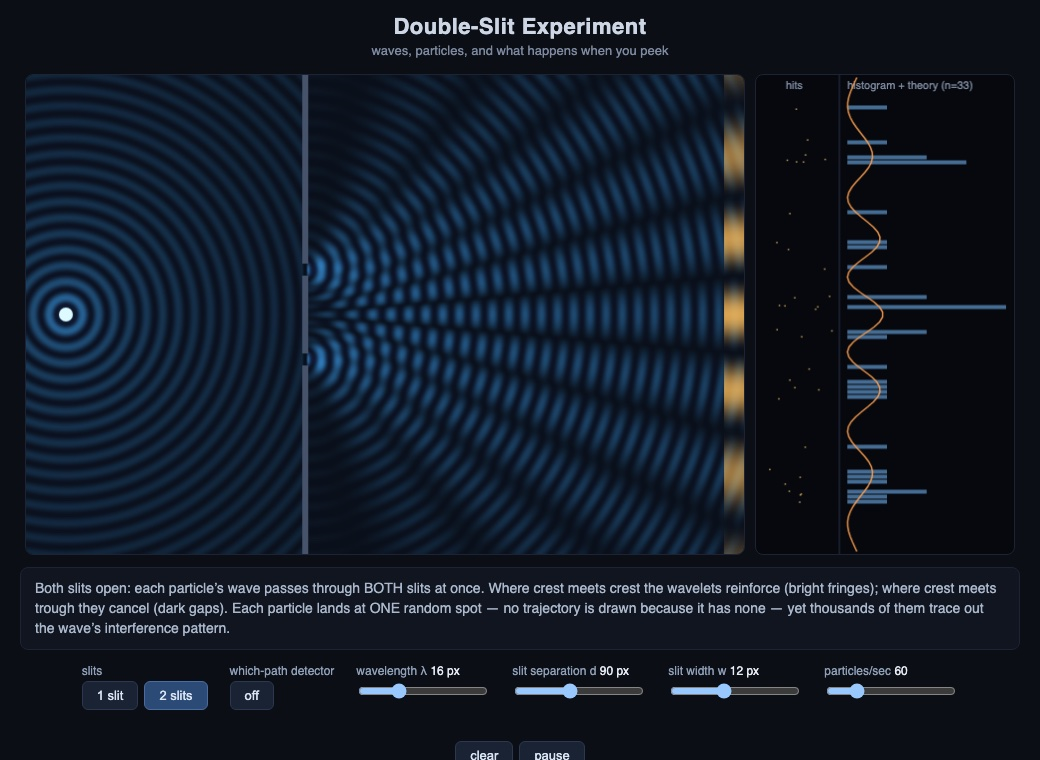
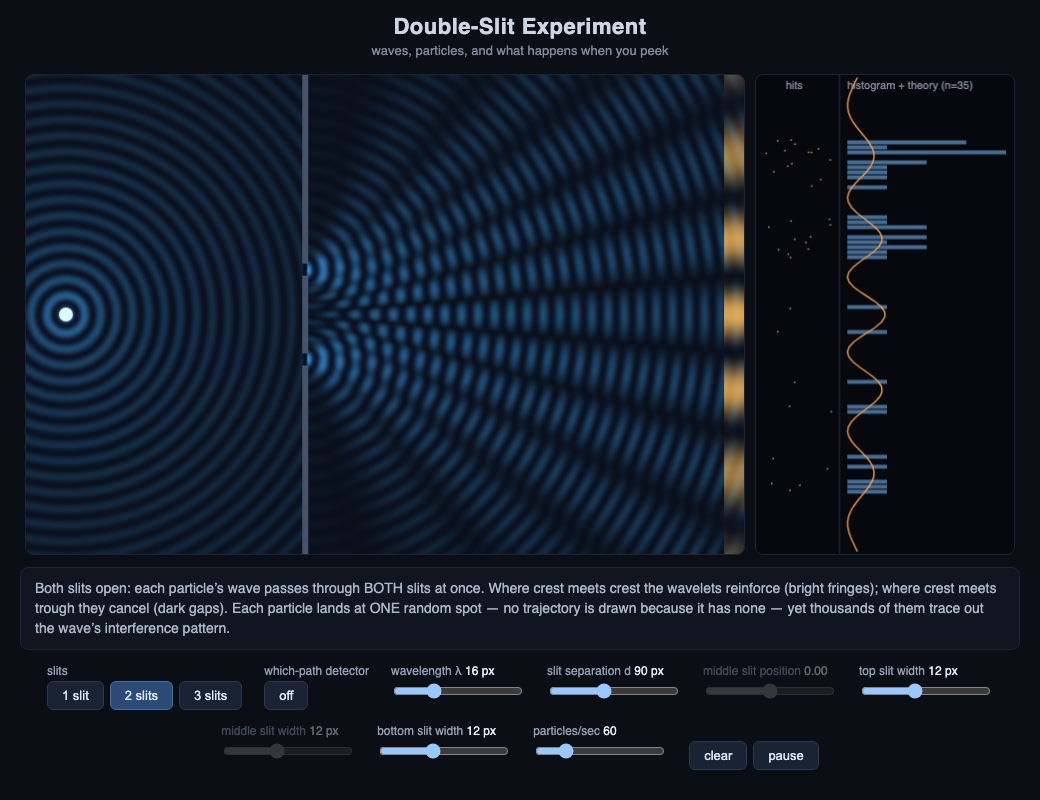
feat(dual-slit): third slit with movable middle slit and per-slit widths
midPos -1..+1 slides the middle slit from adjacent-to-top to adjacent-to-
bottom; each slit gets its own width slider. Which-path detector now
scrambles phases across all open slits.

Changed region(s): [[0.0, 0.0, 0.9846, 1.0], [0.7385, 0.0908, 0.7692, 0.1211], [0.3692, 0.6658, 0.4, 0.6961]]

diff --git a/2d-dual-slit-experiment/index.html b/2d-dual-slit-experiment/index.html
@@ -41,6 +41,7 @@ button:disabled { opacity:0.4; cursor:default; }
     <div class="btngroup">
       <button id="slits1">1 slit</button>
       <button id="slits2" class="active">2 slits</button>
+      <button id="slits3">3 slits</button>
     </div>
   </div>
   <div class="ctl">which-path detector
@@ -52,8 +53,17 @@ button:disabled { opacity:0.4; cursor:default; }
   <div class="ctl"><span>slit separation d <span class="val" id="sepVal"></span></span>
     <input type="range" id="sep" min="40" max="160" step="2" value="90">
   </div>
-  <div class="ctl"><span>slit width w <span class="val" id="slitWidthVal"></span></span>
-    <input type="range" id="slitWidth" min="4" max="24" step="1" value="12">
+  <div class="ctl"><span>middle slit position <span class="val" id="midPosVal"></span></span>
+    <input type="range" id="midPos" min="-1" max="1" step="0.05" value="0">
+  </div>
+  <div class="ctl"><span>top slit width <span class="val" id="w1Val"></span></span>
+    <input type="range" id="w1" min="4" max="24" step="1" value="12">
+  </div>
+  <div class="ctl"><span>middle slit width <span class="val" id="w2Val"></span></span>
+    <input type="range" id="w2" min="4" max="24" step="1" value="12">
+  </div>
+  <div class="ctl"><span>bottom slit width <span class="val" id="w3Val"></span></span>
+    <input type="range" id="w3" min="4" max="24" step="1" value="12">
   </div>
   <div class="ctl"><span>particles/sec <span class="val" id="rateVal"></span></span>
     <input type="range" id="rate" min="0" max="300" step="5" value="60">
@@ -66,23 +76,42 @@ button:disabled { opacity:0.4; cursor:default; }
   </div>
 </div>
 <script id="physics-core">
-// Pure double-slit math. No DOM. Huygens: each slit = perSlit coherent point
-// sources; 2D cylindrical waves e^{ikr}/sqrt(r).
+// Pure slit-experiment math. No DOM. Huygens: each slit = perSlit coherent
+// point sources; 2D cylindrical waves e^{ikr}/sqrt(r). Up to 3 slits, each
+// with its own width. midPos slides the middle slit of a 3-slit barrier:
+// -1 = adjacent to the top slit, 0 = centered, +1 = adjacent to the bottom.
 const Physics = {
-  slitSources({ slitCount, sep, slitWidth, barrierX, cy, perSlit }) {
-    const centers = slitCount === 1 ? [cy] : [cy - sep / 2, cy + sep / 2];
+  // Slit centers/widths, top to bottom. widths[i] belongs to slit i.
+  slitLayout({ slitCount, sep, widths, midPos = 0, cy }) {
+    if (slitCount === 1) return [{ c: cy, w: widths[0] }];
+    if (slitCount === 2) return [
+      { c: cy - sep / 2, w: widths[0] },
+      { c: cy + sep / 2, w: widths[1] }
+    ];
+    const wT = widths[0], wM = widths[1], wB = widths[2];
+    const offTop = Math.max(0, sep / 2 - (wT + wM) / 2 - 2); // 2 px wall at the extreme
+    const offBot = Math.max(0, sep / 2 - (wB + wM) / 2 - 2);
+    const c = cy + (midPos < 0 ? midPos * offTop : midPos * offBot);
+    return [
+      { c: cy - sep / 2, w: wT },
+      { c, w: wM },
+      { c: cy + sep / 2, w: wB }
+    ];
+  },
+  slitSources(opts) {
+    const { barrierX, perSlit } = opts;
     const srcs = [];
-    centers.forEach((c, slit) => {
+    Physics.slitLayout(opts).forEach(({ c, w }, slit) => {
       for (let i = 0; i < perSlit; i++) {
         const f = perSlit === 1 ? 0 : i / (perSlit - 1) - 0.5;
-        srcs.push({ x: barrierX, y: c + f * slitWidth, slit });
+        srcs.push({ x: barrierX, y: c + f * w, slit });
       }
     });
     return srcs;
   },
-  // Per-slit complex field sums at one point: {re:[A,B], im:[A,B]}
+  // Per-slit complex field sums at one point: {re:[A,B,C], im:[A,B,C]}
   fieldAt(sources, k, px, py) {
-    const re = [0, 0], im = [0, 0];
+    const re = [0, 0, 0], im = [0, 0, 0];
     for (const s of sources) {
       const r = Math.max(Math.hypot(px - s.x, py - s.y), 0.5);
       const a = 1 / Math.sqrt(r);
@@ -92,14 +121,14 @@ const Physics = {
     return { re, im };
   },
   // Intensity profile down the screen column. coherent=false models a
-  // which-path measurement: |psi1|^2 + |psi2|^2 instead of |psi1+psi2|^2.
+  // which-path measurement: sum |psi_i|^2 instead of |sum psi_i|^2.
   screenIntensity(sources, k, screenX, height, coherent) {
     const I = new Float64Array(height);
     for (let y = 0; y < height; y++) {
       const f = Physics.fieldAt(sources, k, screenX, y + 0.5);
       I[y] = coherent
-        ? (f.re[0] + f.re[1]) ** 2 + (f.im[0] + f.im[1]) ** 2
-        : f.re[0] ** 2 + f.im[0] ** 2 + f.re[1] ** 2 + f.im[1] ** 2;
+        ? (f.re[0] + f.re[1] + f.re[2]) ** 2 + (f.im[0] + f.im[1] + f.im[2]) ** 2
+        : f.re[0] ** 2 + f.im[0] ** 2 + f.re[1] ** 2 + f.im[1] ** 2 + f.re[2] ** 2 + f.im[2] ** 2;
     }
     return I;
   },
@@ -136,9 +165,9 @@ const SRC = { x: 40, y: H / 2 };
 const BARRIER_X = 280, BARRIER_W = 6, SCREEN_X = 700;
 const PER_SLIT = 9;
 
-const state = { slits: 2, sep: 90, slitWidth: 12, lambda: 16, rate: 60, detector: false, paused: false };
+const state = { slits: 2, sep: 90, w1: 12, w2: 12, w3: 12, midPos: 0, lambda: 16, rate: 60, detector: false, paused: false };
 
-let reA, imA, reB, imB, envArr, screenI, cdf, maxScreenI = 0;
+let reS, imS, envArr, screenI, cdf, maxScreenI = 0;
 let sources = [], kNum = 0;
 
 const gcan = document.createElement('canvas');
@@ -150,17 +179,33 @@ const glowCan = document.createElement('canvas');
 glowCan.width = 1; glowCan.height = H;
 const glowCtx = glowCan.getContext('2d');
 
-function incoherent() { return state.detector && state.slits === 2; }
+function incoherent() { return state.detector && state.slits >= 2; }
+
+// widths in slit order, top to bottom; the single slit sits in the middle
+function activeWidths() {
+  if (state.slits === 1) return [state.w2];
+  if (state.slits === 2) return [state.w1, state.w3];
+  return [state.w1, state.w2, state.w3];
+}
+
+function layoutOpts() {
+  return { slitCount: state.slits, sep: state.sep, widths: activeWidths(),
+    midPos: state.midPos, barrierX: BARRIER_X, cy: H / 2, perSlit: PER_SLIT };
+}
 
 function recompute() {
   // keep slits from overlapping
-  if (state.slits === 2 && state.slitWidth > state.sep - 16) state.slitWidth = state.sep - 16;
+  if (state.slits >= 2) {
+    const cap = state.slits === 3 ? Math.max(4, Math.floor(state.sep / 2 - 6)) : Math.max(4, state.sep - 16);
+    state.w1 = Math.min(state.w1, cap);
+    state.w2 = Math.min(state.w2, cap);
+    state.w3 = Math.min(state.w3, cap);
+  }
   kNum = 2 * Math.PI / state.lambda;
-  sources = Physics.slitSources({ slitCount: state.slits, sep: state.sep,
-    slitWidth: state.slitWidth, barrierX: BARRIER_X, cy: H / 2, perSlit: PER_SLIT });
+  sources = Physics.slitSources(layoutOpts());
   const n = GW * GH;
-  reA = new Float32Array(n); imA = new Float32Array(n);
-  reB = new Float32Array(n); imB = new Float32Array(n);
+  reS = [new Float32Array(n), new Float32Array(n), new Float32Array(n)];
+  imS = [new Float32Array(n), new Float32Array(n), new Float32Array(n)];
   const srcNorm = 3.2 / PER_SLIT;
   for (let gy = 0; gy < GH; gy++) {
     const y = gy * GS + GS / 2;
@@ -171,11 +216,12 @@ function recompute() {
       if (x < BARRIER_X) {
         const r = Math.max(Math.hypot(x - SRC.x, y - SRC.y), 0.5);
         const a = 2.2 / Math.sqrt(r);
-        reA[i] = a * Math.cos(kNum * r); imA[i] = a * Math.sin(kNum * r);
+        reS[0][i] = a * Math.cos(kNum * r); imS[0][i] = a * Math.sin(kNum * r);
       } else {
         const f = Physics.fieldAt(sources, kNum, x, y);
-        reA[i] = f.re[0] * srcNorm; imA[i] = f.im[0] * srcNorm;
-        reB[i] = f.re[1] * srcNorm; imB[i] = f.im[1] * srcNorm;
+        for (let sl = 0; sl < 3; sl++) {
+          reS[sl][i] = f.re[sl] * srcNorm; imS[sl][i] = f.im[sl] * srcNorm;
+        }
       }
     }
   }
@@ -192,10 +238,11 @@ function recompute() {
 function computeEnv() {
   envArr = new Float32Array(GW * GH);
   const inc = incoherent();
+  const [r0, r1, r2] = reS, [i0, i1, i2] = imS;
   for (let i = 0; i < envArr.length; i++) {
     envArr[i] = inc
-      ? Math.sqrt(reA[i] * reA[i] + imA[i] * imA[i] + reB[i] * reB[i] + imB[i] * imB[i])
-      : Math.hypot(reA[i] + reB[i], imA[i] + imB[i]);
+      ? Math.sqrt(r0[i] * r0[i] + i0[i] * i0[i] + r1[i] * r1[i] + i1[i] * i1[i] + r2[i] * r2[i] + i2[i] * i2[i])
+      : Math.hypot(r0[i] + r1[i] + r2[i], i0[i] + i1[i] + i2[i]);
   }
 }
 
@@ -210,18 +257,21 @@ function buildGlow() {
   glowCtx.putImageData(img, 0, 0);
 }
 
-let thetaB = 0;  // extra phase on slit B; random-walks when "watched"
+let theta1 = 0, theta2 = 0;  // extra phase per slit; random-walks when "watched"
 function drawField(tSec) {
   const om = kNum * 110;                       // ripples travel ~110 px/s
   const c = Math.cos(om * tSec), s = Math.sin(om * tSec);
-  let cB = c, sB = s;
+  let c1 = c, s1 = s, c2 = c, s2 = s;
   if (incoherent()) {
-    thetaB += (Math.random() - 0.5) * 0.9;     // measurement scrambles relative phase
-    cB = Math.cos(om * tSec + thetaB); sB = Math.sin(om * tSec + thetaB);
+    theta1 += (Math.random() - 0.5) * 0.9;     // measurement scrambles relative phases
+    theta2 += (Math.random() - 0.5) * 0.9;
+    c1 = Math.cos(om * tSec + theta1); s1 = Math.sin(om * tSec + theta1);
+    c2 = Math.cos(om * tSec + theta2); s2 = Math.sin(om * tSec + theta2);
   }
+  const [r0, rr1, rr2] = reS, [i0, ii1, ii2] = imS;
   const d = gimg.data;
   for (let i = 0; i < GW * GH; i++) {
-    const v = reA[i] * c + imA[i] * s + reB[i] * cB + imB[i] * sB;
+    const v = r0[i] * c + i0[i] * s + rr1[i] * c1 + ii1[i] * s1 + rr2[i] * c2 + ii2[i] * s2;
     const ve = Math.tanh(v * 1.1);
     const ee = Math.tanh(envArr[i] * 0.9);
     const p = i * 4;
@@ -239,15 +289,20 @@ function drawField(tSec) {
 }
 
 function drawBarrier() {
-  const cy = H / 2;
-  const centers = state.slits === 1 ? [cy] : [cy - state.sep / 2, cy + state.sep / 2];
+  const layout = Physics.slitLayout(layoutOpts());
+  const ivs = layout.map(({ c, w }) => [c - w / 2, c + w / 2]).sort((a, b) => a[0] - b[0]);
+  const merged = [];
+  for (const iv of ivs) {
+    if (merged.length && iv[0] <= merged[merged.length - 1][1]) {
+      merged[merged.length - 1][1] = Math.max(merged[merged.length - 1][1], iv[1]);
+    } else merged.push([iv[0], iv[1]]);
+  }
   const xb = BARRIER_X - BARRIER_W / 2;
-  const segs = [0];
-  centers.forEach(c => segs.push(c - state.slitWidth / 2, c + state.slitWidth / 2));
-  segs.push(H);
   fctx.fillStyle = '#46536b';
-  for (let i = 0; i < segs.length; i += 2) fctx.fillRect(xb, segs[i], BARRIER_W, segs[i + 1] - segs[i]);
-  if (incoherent()) centers.forEach(c => drawEye(BARRIER_X + 18, c));
+  let prev = 0;
+  for (const [a, b] of merged) { fctx.fillRect(xb, prev, BARRIER_W, a - prev); prev = b; }
+  fctx.fillRect(xb, prev, BARRIER_W, H - prev);
+  if (incoherent()) layout.forEach(({ c }) => drawEye(BARRIER_X + 18, c));
 }
 
 function drawEye(x, y) {
@@ -338,27 +393,43 @@ function drawPanel() {
 const captions = {
   one: 'One slit open: the wave spreads out from the slit (diffraction) and particles pile up in a single broad band. Nothing to interfere with — no fringes.',
   two: 'Both slits open: each particle’s wave passes through BOTH slits at once. Where crest meets crest the wavelets reinforce (bright fringes); where crest meets trough they cancel (dark gaps). Each particle lands at ONE random spot — no trajectory is drawn because it has none — yet thousands of them trace out the wave’s interference pattern.',
-  watched: 'Detector on: we now know which slit each particle used. That information destroys the superposition — the two wavelets’ relative phase is scrambled (watch the fringes jitter and wash out) — and the pattern collapses into two overlapping single-slit bands. Looking changes the outcome.'
+  three: 'Three slits open: three wavelets interfere. Evenly spaced slits give sharp principal maxima with faint secondary peaks between them. Slide the middle slit off-center to detune the spacing and watch the pattern reorganize; shrink a slit and its wavelet carries less weight, washing out the fringes it helped sharpen.',
+  watched: 'Detector on: we now know which slit each particle used. That information destroys the superposition — the wavelets’ relative phases are scrambled (watch the fringes jitter and wash out) — and the pattern collapses into overlapping single-slit bands. Looking changes the outcome.'
 };
 function updateCaption() {
   document.getElementById('caption').textContent =
-    state.slits === 1 ? captions.one : (state.detector ? captions.watched : captions.two);
+    state.slits === 1 ? captions.one
+    : state.detector ? captions.watched
+    : state.slits === 2 ? captions.two : captions.three;
 }
 
 const els = {};
-['slits1', 'slits2', 'detector', 'lambda', 'sep', 'slitWidth', 'rate', 'clear', 'pause',
- 'lambdaVal', 'sepVal', 'slitWidthVal', 'rateVal'].forEach(id => els[id] = document.getElementById(id));
+['slits1', 'slits2', 'slits3', 'detector', 'lambda', 'sep', 'midPos', 'w1', 'w2', 'w3', 'rate', 'clear', 'pause',
+ 'lambdaVal', 'sepVal', 'midPosVal', 'w1Val', 'w2Val', 'w3Val', 'rateVal'].forEach(id => els[id] = document.getElementById(id));
+
+function setEnabled(id, on) {
+  els[id].disabled = !on;
+  els[id].parentElement.style.opacity = on ? '' : '0.4';
+}
 
 function syncControls() {
   els.slits1.classList.toggle('active', state.slits === 1);
   els.slits2.classList.toggle('active', state.slits === 2);
+  els.slits3.classList.toggle('active', state.slits === 3);
   els.detector.disabled = state.slits === 1;
-  els.detector.textContent = state.detector && state.slits === 2 ? 'on' : 'off';
-  els.detector.classList.toggle('active', state.detector && state.slits === 2);
-  els.lambda.value = state.lambda;       els.lambdaVal.textContent = state.lambda + ' px';
-  els.sep.value = state.sep;             els.sepVal.textContent = state.sep + ' px';
-  els.slitWidth.value = state.slitWidth; els.slitWidthVal.textContent = state.slitWidth + ' px';
-  els.rate.value = state.rate;           els.rateVal.textContent = String(state.rate);
+  els.detector.textContent = incoherent() ? 'on' : 'off';
+  els.detector.classList.toggle('active', incoherent());
+  setEnabled('midPos', state.slits === 3);
+  setEnabled('w1', state.slits >= 2);
+  setEnabled('w2', state.slits !== 2);
+  setEnabled('w3', state.slits >= 2);
+  els.lambda.value = state.lambda;   els.lambdaVal.textContent = state.lambda + ' px';
+  els.sep.value = state.sep;         els.sepVal.textContent = state.sep + ' px';
+  els.midPos.value = state.midPos;   els.midPosVal.textContent = state.midPos.toFixed(2);
+  els.w1.value = state.w1;           els.w1Val.textContent = state.w1 + ' px';
+  els.w2.value = state.w2;           els.w2Val.textContent = state.w2 + ' px';
+  els.w3.value = state.w3;           els.w3Val.textContent = state.w3 + ' px';
+  els.rate.value = state.rate;       els.rateVal.textContent = String(state.rate);
 }
 
 function clearDetections() {
@@ -367,10 +438,14 @@ function clearDetections() {
 
 els.slits1.addEventListener('click', () => { state.slits = 1; clearDetections(); recompute(); });
 els.slits2.addEventListener('click', () => { state.slits = 2; clearDetections(); recompute(); });
+els.slits3.addEventListener('click', () => { state.slits = 3; clearDetections(); recompute(); });
 els.detector.addEventListener('click', () => { state.detector = !state.detector; clearDetections(); recompute(); });
 els.lambda.addEventListener('input', () => { state.lambda = +els.lambda.value; clearDetections(); recompute(); });
 els.sep.addEventListener('input', () => { state.sep = +els.sep.value; clearDetections(); recompute(); });
-els.slitWidth.addEventListener('input', () => { state.slitWidth = +els.slitWidth.value; clearDetections(); recompute(); });
+els.midPos.addEventListener('input', () => { state.midPos = +els.midPos.value; clearDetections(); recompute(); });
+['w1', 'w2', 'w3'].forEach(id => els[id].addEventListener('input', () => {
+  state[id] = +els[id].value; clearDetections(); recompute();
+}));
 els.rate.addEventListener('input', () => { state.rate = +els.rate.value; syncControls(); });
 els.clear.addEventListener('click', clearDetections);
 els.pause.addEventListener('click', () => {